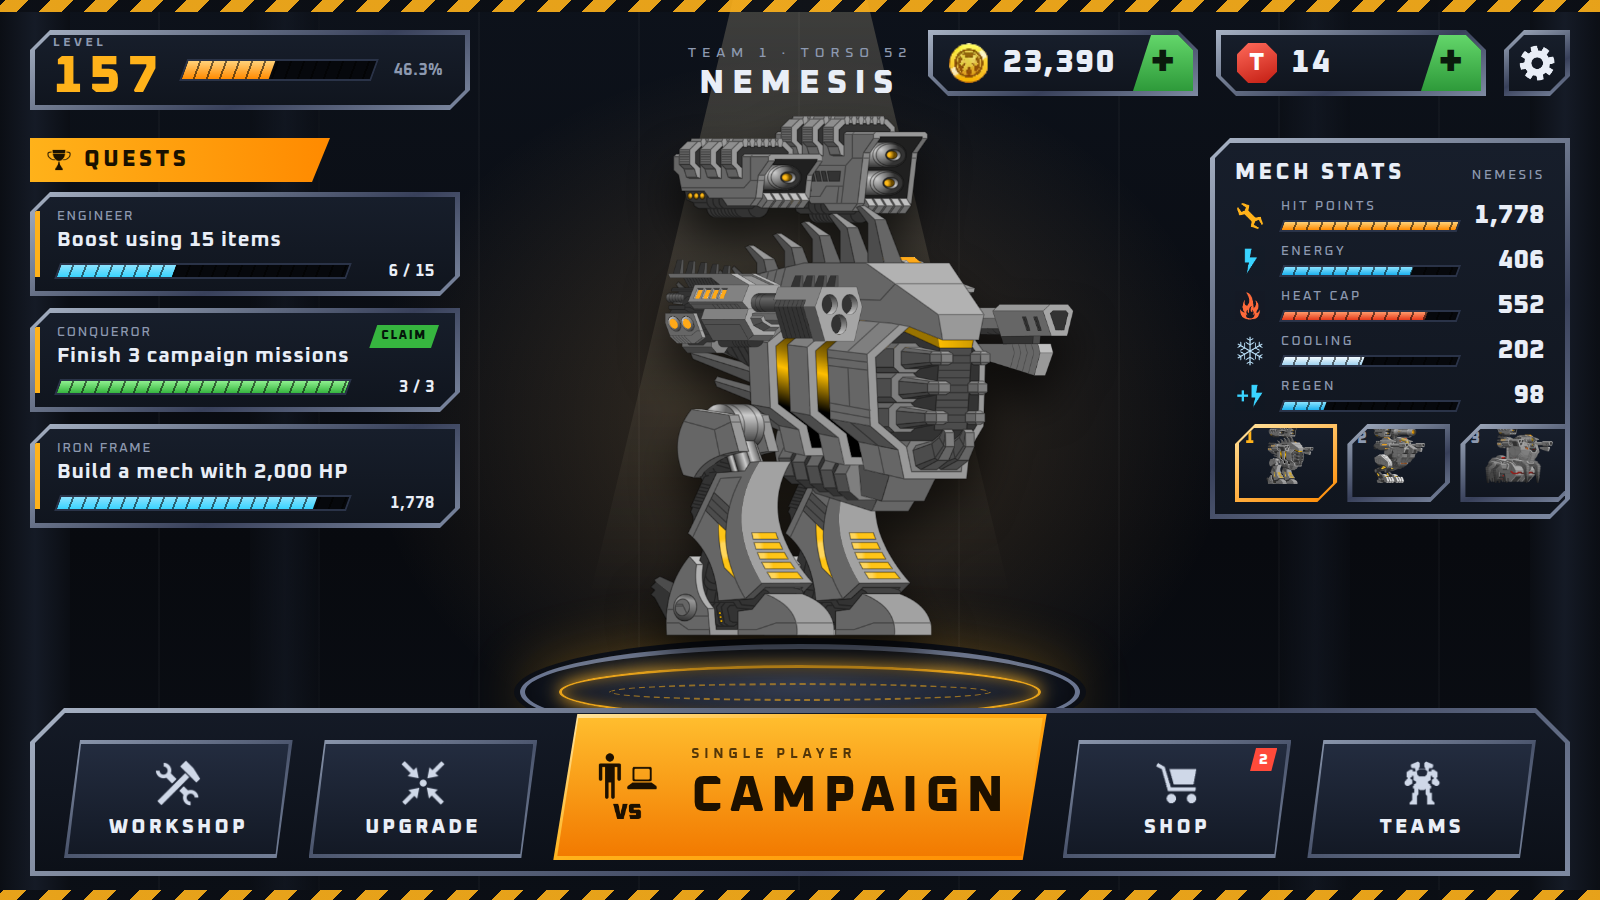
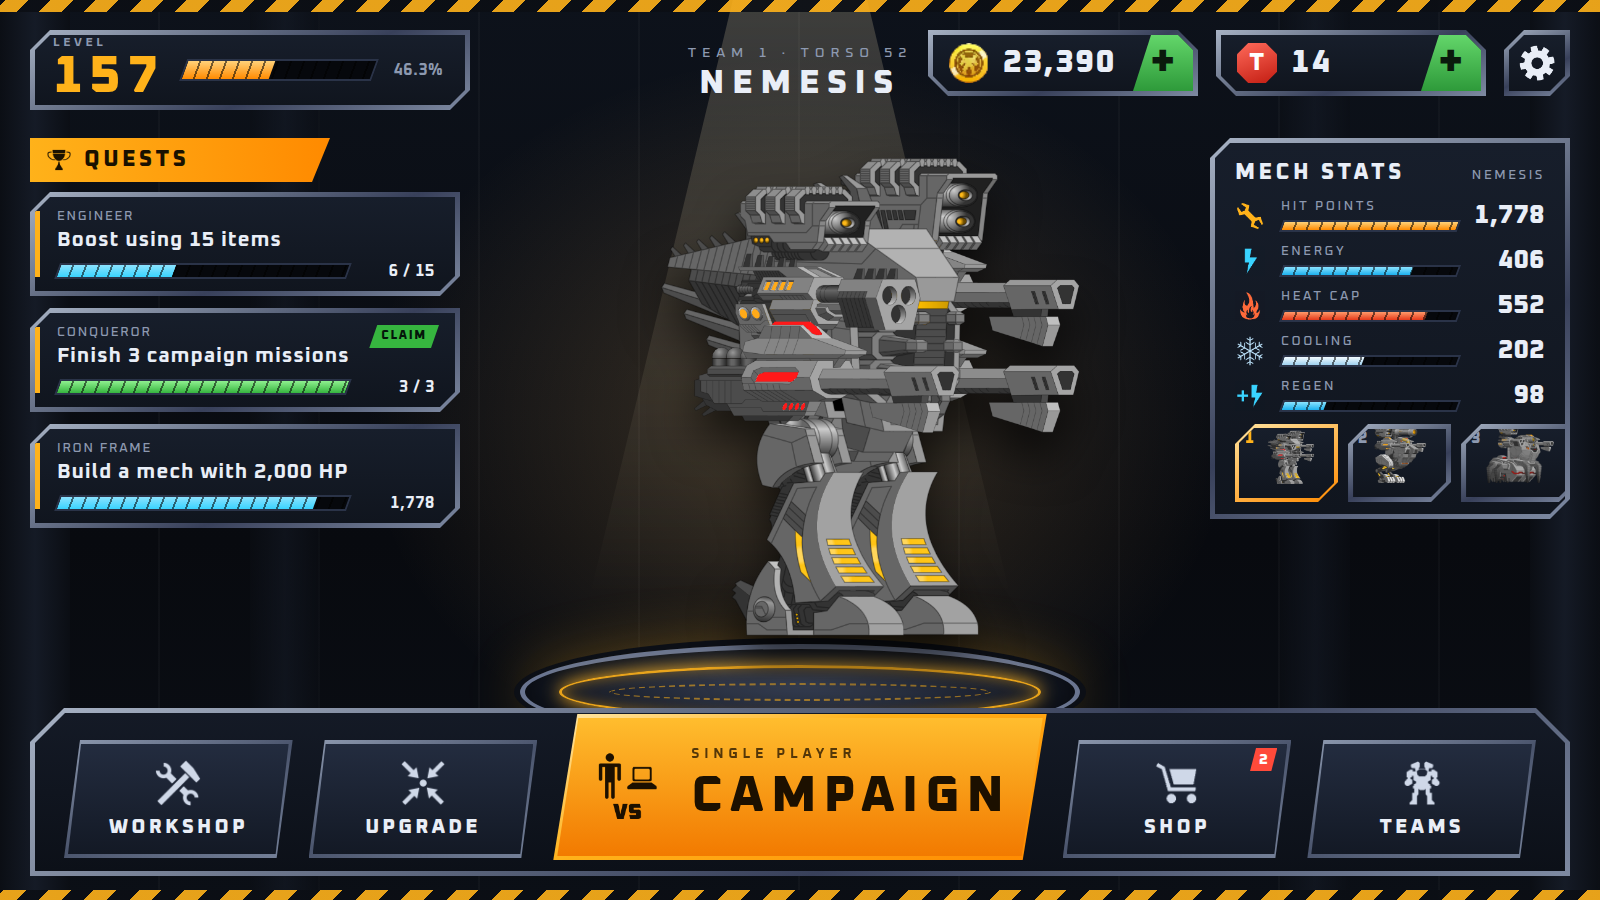
Use the hand-aligned Brutality positions in the mocks
Saves the Mech Aligner result (ui/aligner/saved/torso52.json) and makes
build_mechs.py place the mech from those absolute positions instead of
the anchor formula.

Claude-Session: https://claude.ai/code/session_016EMeU7WbdybdkHaQ4QiAx5

Changed region(s): [[0.4062, 0.1244, 0.6875, 0.7467], [0.7812, 0.4667, 0.875, 0.56], [0.9375, 0.4667, 0.9688, 0.5289]]

diff --git a/ui/mocks/assets/mech.js b/ui/mocks/assets/mech.js
@@ -1,5 +1,5 @@
 // Generated by ui/mocks/build_mechs.py from the game's own sprites and anchors.
-window.MECHS={"m1": {"w": 740, "h": 789, "parts": [{"src": "assets/mechs/sideRifle1E.png", "x": 310, "y": 214, "z": 1, "slot": "side2"}, {"src": "assets/mechs/topLaser2C_phys.png", "x": 264, "y": 0, "z": 2, "slot": "top2"}, {"src": "assets/mechs/leg73D_phys.png", "x": 246, "y": 437, "z": 3, "slot": "leg2"}, {"src": "assets/mechs/torso52_phys.png", "x": 0, "y": 40, "z": 4, "slot": "torso"}, {"src": "assets/mechs/topLaser2B_phys.png", "x": 133, "y": 34, "z": 5, "slot": "top1"}, {"src": "assets/mechs/leg73D_phys.png", "x": 98, "y": 437, "z": 6, "slot": "leg1"}, {"src": "assets/mechs/cannon3C.png", "x": 120, "y": 218, "z": 7, "slot": "side1"}]}, "m2": {"w": 652, "h": 713, "parts": [{"src": "assets/mechs/sideRifle2E.png", "x": 222, "y": 152, "z": 1, "slot": "side2"}, {"src": "assets/mechs/topBeam2E_phys.png", "x": 160, "y": 26, "z": 2, "slot": "top2"}, {"src": "assets/mechs/leg67D_phys.png", "x": 146, "y": 361, "z": 3, "slot": "leg2"}, {"src": "assets/mechs/torso46_phys.png", "x": 24, "y": 24, "z": 4, "slot": "torso"}, {"src": "assets/mechs/topLaser2C_phys.png", "x": 0, "y": 0, "z": 5, "slot": "top1"}, {"src": "assets/mechs/leg67D_phys.png", "x": 26, "y": 361, "z": 6, "slot": "leg1"}, {"src": "assets/mechs/sideRifle1E.png", "x": 18, "y": 152, "z": 7, "slot": "side1"}]}, "m3": {"w": 735, "h": 628, "parts": [{"src": "assets/mechs/sideRifle1E.png", "x": 305, "y": 105, "z": 1, "slot": "side2"}, {"src": "assets/mechs/leg77D_heat.png", "x": 120, "y": 330, "z": 2, "slot": "leg2"}, {"src": "assets/mechs/torso47_phys.png", "x": 107, "y": 12, "z": 3, "slot": "torso"}, {"src": "assets/mechs/topLaser2B_phys.png", "x": 132, "y": 0, "z": 4, "slot": "top1"}, {"src": "assets/mechs/leg77D_heat.png", "x": 0, "y": 330, "z": 5, "slot": "leg1"}, {"src": "assets/mechs/cannon3C.png", "x": 129, "y": 109, "z": 6, "slot": "side1"}]}};
+window.MECHS={"m1": {"w": 799, "h": 842, "parts": [{"src": "assets/mechs/sideRifle1E.png", "x": 369, "y": 193, "z": 1, "slot": "side2"}, {"src": "assets/mechs/sideRifle1E.png", "x": 369, "y": 332, "z": 2, "slot": "side4"}, {"src": "assets/mechs/topLaser2C_phys.png", "x": 412, "y": 69, "z": 3, "slot": "top2"}, {"src": "assets/mechs/leg73D_phys.png", "x": 357, "y": 489, "z": 4, "slot": "leg2"}, {"src": "assets/mechs/torso52_phys.png", "x": 0, "y": 0, "z": 6, "slot": "torso"}, {"src": "assets/mechs/topLaser2B_phys.png", "x": 250, "y": 114, "z": 7, "slot": "top1"}, {"src": "assets/mechs/leg73D_phys.png", "x": 236, "y": 490, "z": 8, "slot": "leg1"}, {"src": "assets/mechs/cannon3C.png", "x": 242, "y": 223, "z": 9, "slot": "side1"}, {"src": "assets/mechs/sideRifle2E.png", "x": 175, "y": 333, "z": 10, "slot": "side3"}]}, "m2": {"w": 652, "h": 713, "parts": [{"src": "assets/mechs/sideRifle2E.png", "x": 222, "y": 152, "z": 1, "slot": "side2"}, {"src": "assets/mechs/topBeam2E_phys.png", "x": 160, "y": 26, "z": 2, "slot": "top2"}, {"src": "assets/mechs/leg67D_phys.png", "x": 146, "y": 361, "z": 3, "slot": "leg2"}, {"src": "assets/mechs/torso46_phys.png", "x": 24, "y": 24, "z": 4, "slot": "torso"}, {"src": "assets/mechs/topLaser2C_phys.png", "x": 0, "y": 0, "z": 5, "slot": "top1"}, {"src": "assets/mechs/leg67D_phys.png", "x": 26, "y": 361, "z": 6, "slot": "leg1"}, {"src": "assets/mechs/sideRifle1E.png", "x": 18, "y": 152, "z": 7, "slot": "side1"}]}, "m3": {"w": 735, "h": 628, "parts": [{"src": "assets/mechs/sideRifle1E.png", "x": 305, "y": 105, "z": 1, "slot": "side2"}, {"src": "assets/mechs/leg77D_heat.png", "x": 120, "y": 330, "z": 2, "slot": "leg2"}, {"src": "assets/mechs/torso47_phys.png", "x": 107, "y": 12, "z": 3, "slot": "torso"}, {"src": "assets/mechs/topLaser2B_phys.png", "x": 132, "y": 0, "z": 4, "slot": "top1"}, {"src": "assets/mechs/leg77D_heat.png", "x": 0, "y": 330, "z": 5, "slot": "leg1"}, {"src": "assets/mechs/cannon3C.png", "x": 129, "y": 109, "z": 6, "slot": "side1"}]}};
 
 window.buildMech=function(el,key,heightPx){const m=window.MECHS[key];el.style.position='relative';el.style.width=m.w+'px';el.style.height=m.h+'px';
  for(const p of m.parts){const i=document.createElement('img');i.src=p.src;i.draggable=false;i.style.cssText='position:absolute;left:'+p.x+'px;top:'+p.y+'px;z-index:'+p.z+';max-width:none';el.appendChild(i);}

diff --git a/ui/mocks/A-blueprint.html b/ui/mocks/A-blueprint.html
@@ -137,7 +137,7 @@ svg.lines circle{fill:#fff;stroke:var(--ink);stroke-width:3}
     <line x1="1080" y1="240" x2="1320" y2="240"/><circle cx="1080" cy="240" r="9"/>
     <line x1="1150" y1="330" x2="1320" y2="330"/><circle cx="1150" cy="330" r="9"/>
     <line x1="1030" y1="410" x2="1320" y2="410"/><circle cx="1030" cy="410" r="9"/>
-    <line x1="975" y1="540" x2="1320" y2="540"/><circle cx="975" cy="540" r="9"/>
+    <line x1="1070" y1="540" x2="1320" y2="540"/><circle cx="1070" cy="540" r="9"/>
   </svg>
   <div class="co disp" style="left:1330px;top:194px"><div><div class="l">HIT POINTS</div><b class="num" style="font-style:normal">1,778</b></div></div>
   <div class="co disp" style="left:1330px;top:280px"><div><div class="l">ENERGY</div><b class="num" style="font-style:normal">406</b></div></div>

diff --git a/ui/mocks/build_mechs.py b/ui/mocks/build_mechs.py
@@ -87,6 +87,29 @@ def assemble(loadout):
     return {"w": round(x1 - x0), "h": round(y1 - y0), "parts": parts}
 
 
+
+def assemble_aligned(saved_path):
+    """Use absolute positions saved from the Mech Aligner (ui/aligner/saved/*.json) instead of the anchor formula."""
+    a = json.load(open(saved_path))
+    parts = [("torso", a["torso"]["file"], 0.0, 0.0, 6)]
+    for slot, it in a["items"].items():
+        if it.get("sprite"):
+            parts.append((slot, it["sprite"], it["x"], it["y"], it["layer"]))
+    sized = []
+    for slot, name, x, y, z in parts:
+        w, h = png_size(sprite_path(name))
+        sized.append((slot, name, x, y, z, w, h))
+    x0 = min(p[2] for p in sized); y0 = min(p[3] for p in sized)
+    x1 = max(p[2] + p[5] for p in sized); y1 = max(p[3] + p[6] for p in sized)
+    out = []
+    for slot, name, x, y, z, w, h in sorted(sized, key=lambda p: p[4]):
+        dst = "assets/mechs/%s.png" % name
+        os.makedirs(os.path.join(MOCKS, "assets", "mechs"), exist_ok=True)
+        shutil.copy(sprite_path(name), os.path.join(MOCKS, dst))
+        out.append({"src": dst, "x": round(x - x0), "y": round(y - y0), "z": z, "slot": slot})
+    return {"w": round(x1 - x0), "h": round(y1 - y0), "parts": out}
+
+
 LOADOUTS = {
     # Brutality torso (torso52) on leg73 legs, checked against the game's own workshop screenshot
     "m1": {"torso": "torso52_phys", "leg1": "leg73D_phys", "leg2": "leg73D_phys",
@@ -109,6 +132,9 @@ window.fitStage=function(){const st=document.querySelector('.stage');function f(
 
 if __name__ == "__main__":
     out = {k: assemble(v) for k, v in LOADOUTS.items()}
+    saved = os.path.join(ROOT, "ui", "aligner", "saved", "torso52.json")
+    if os.path.exists(saved):
+        out["m1"] = assemble_aligned(saved)   # the user's hand-aligned Brutality
     for k, v in out.items():
         print(k, v["w"], v["h"], [p["slot"] for p in v["parts"]])
     with open(os.path.join(MOCKS, "assets", "mech.js"), "w") as f:
